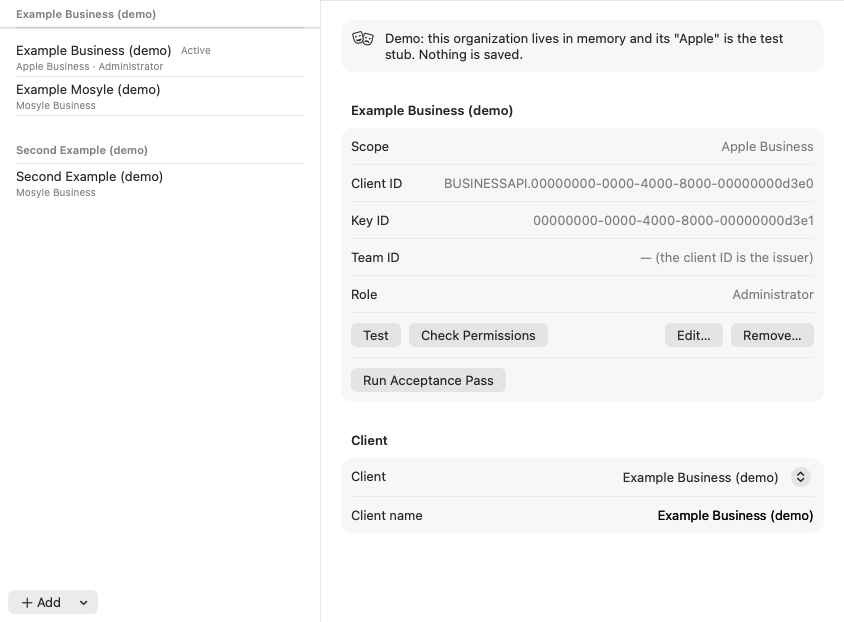
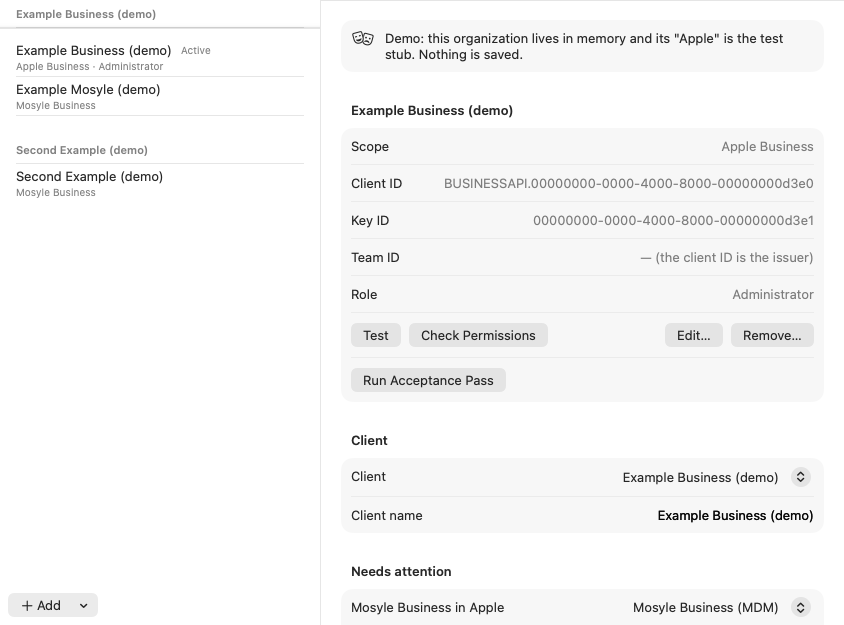
Refresh the screenshots for the Needs-attention screen
From CI run 45413188856's snapshot artifact: the new screen, the Overview with its card
(and the narrow and two-client pictures), and Settings with its Needs-attention section.
The runbook says what the card shows while the rules run again.

diff --git a/docs/domains/history.md b/docs/domains/history.md
@@ -992,6 +992,8 @@ screenshot run.
 - **When it evaluates**: `load()` reads the history and evaluates; the screen and the Overview's card evaluate again whenever what the rules read
   changes (`inputKey`: each list's state and count, the history's read, the setting, the thresholds). A list still being read is one key however
   many pages have come, so the rules aren't run and recorded again for each page. Recording the same subjects again only moves `last_seen`.
+  While what is shown was judged over less than is held now, the screen and the card say "Judging again: …" (`updating`), never the older
+  counts as current (the first CI picture of the card said "12 of 12 rules skipped" beside a device list already read).
 - **Dismiss and Snooze** (**the operator's Q10**): writes to the local history only (`SnapshotStore.dismiss`, `snooze`), under the finding's
   keeper. A dismissal holds until the finding clears (the store keeps it while the finding is seen, and forgets it 30 days unseen); a snooze holds
   until its date (a week, 30 or 90 days on screen; a date not after now is refused in words). Both are off, with the reason, for a finding not kept
